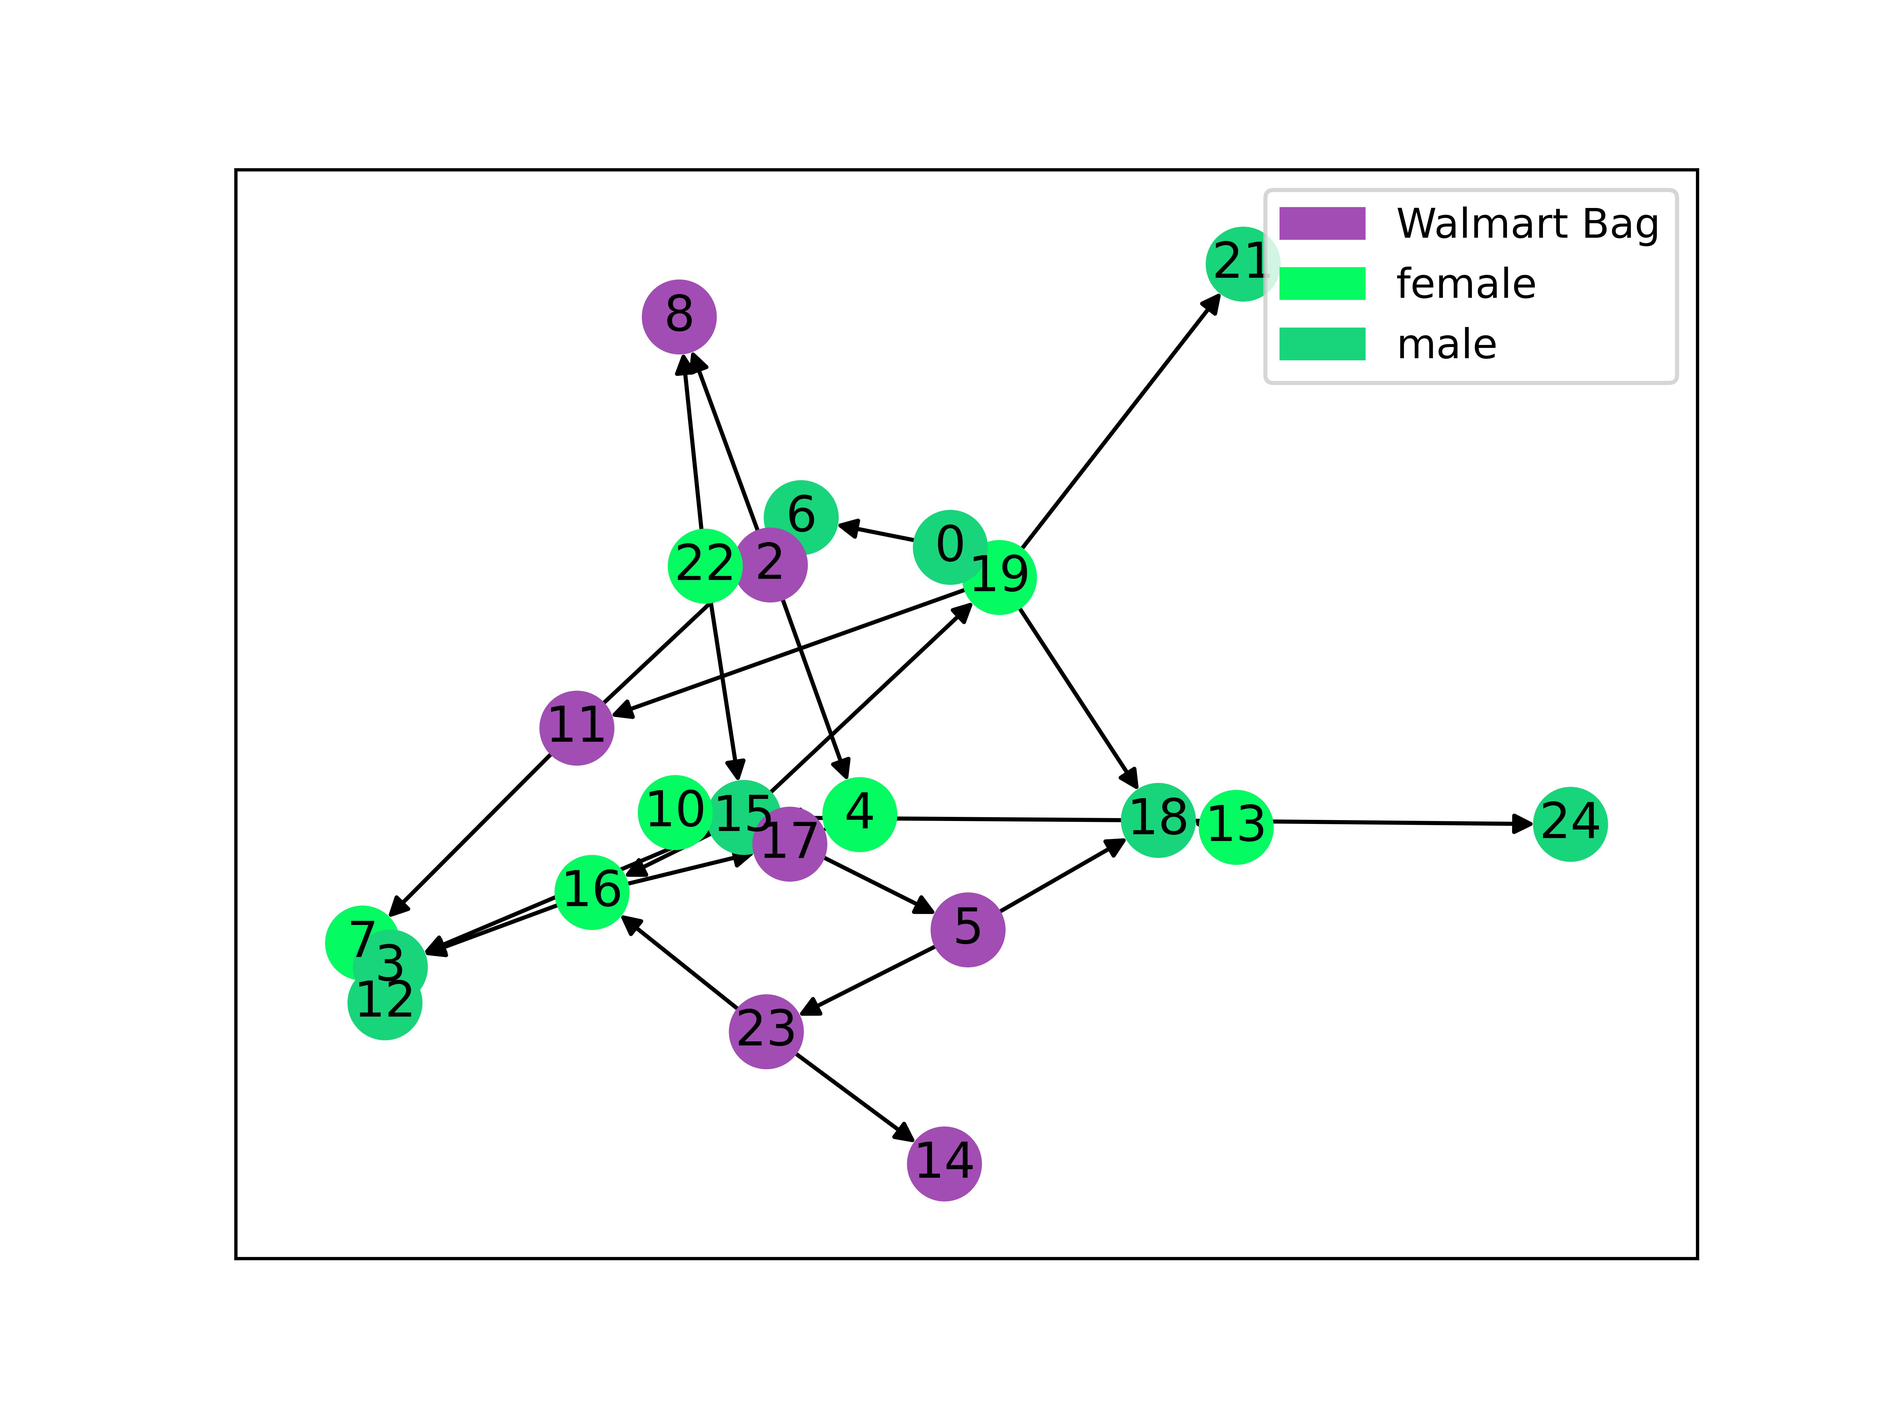
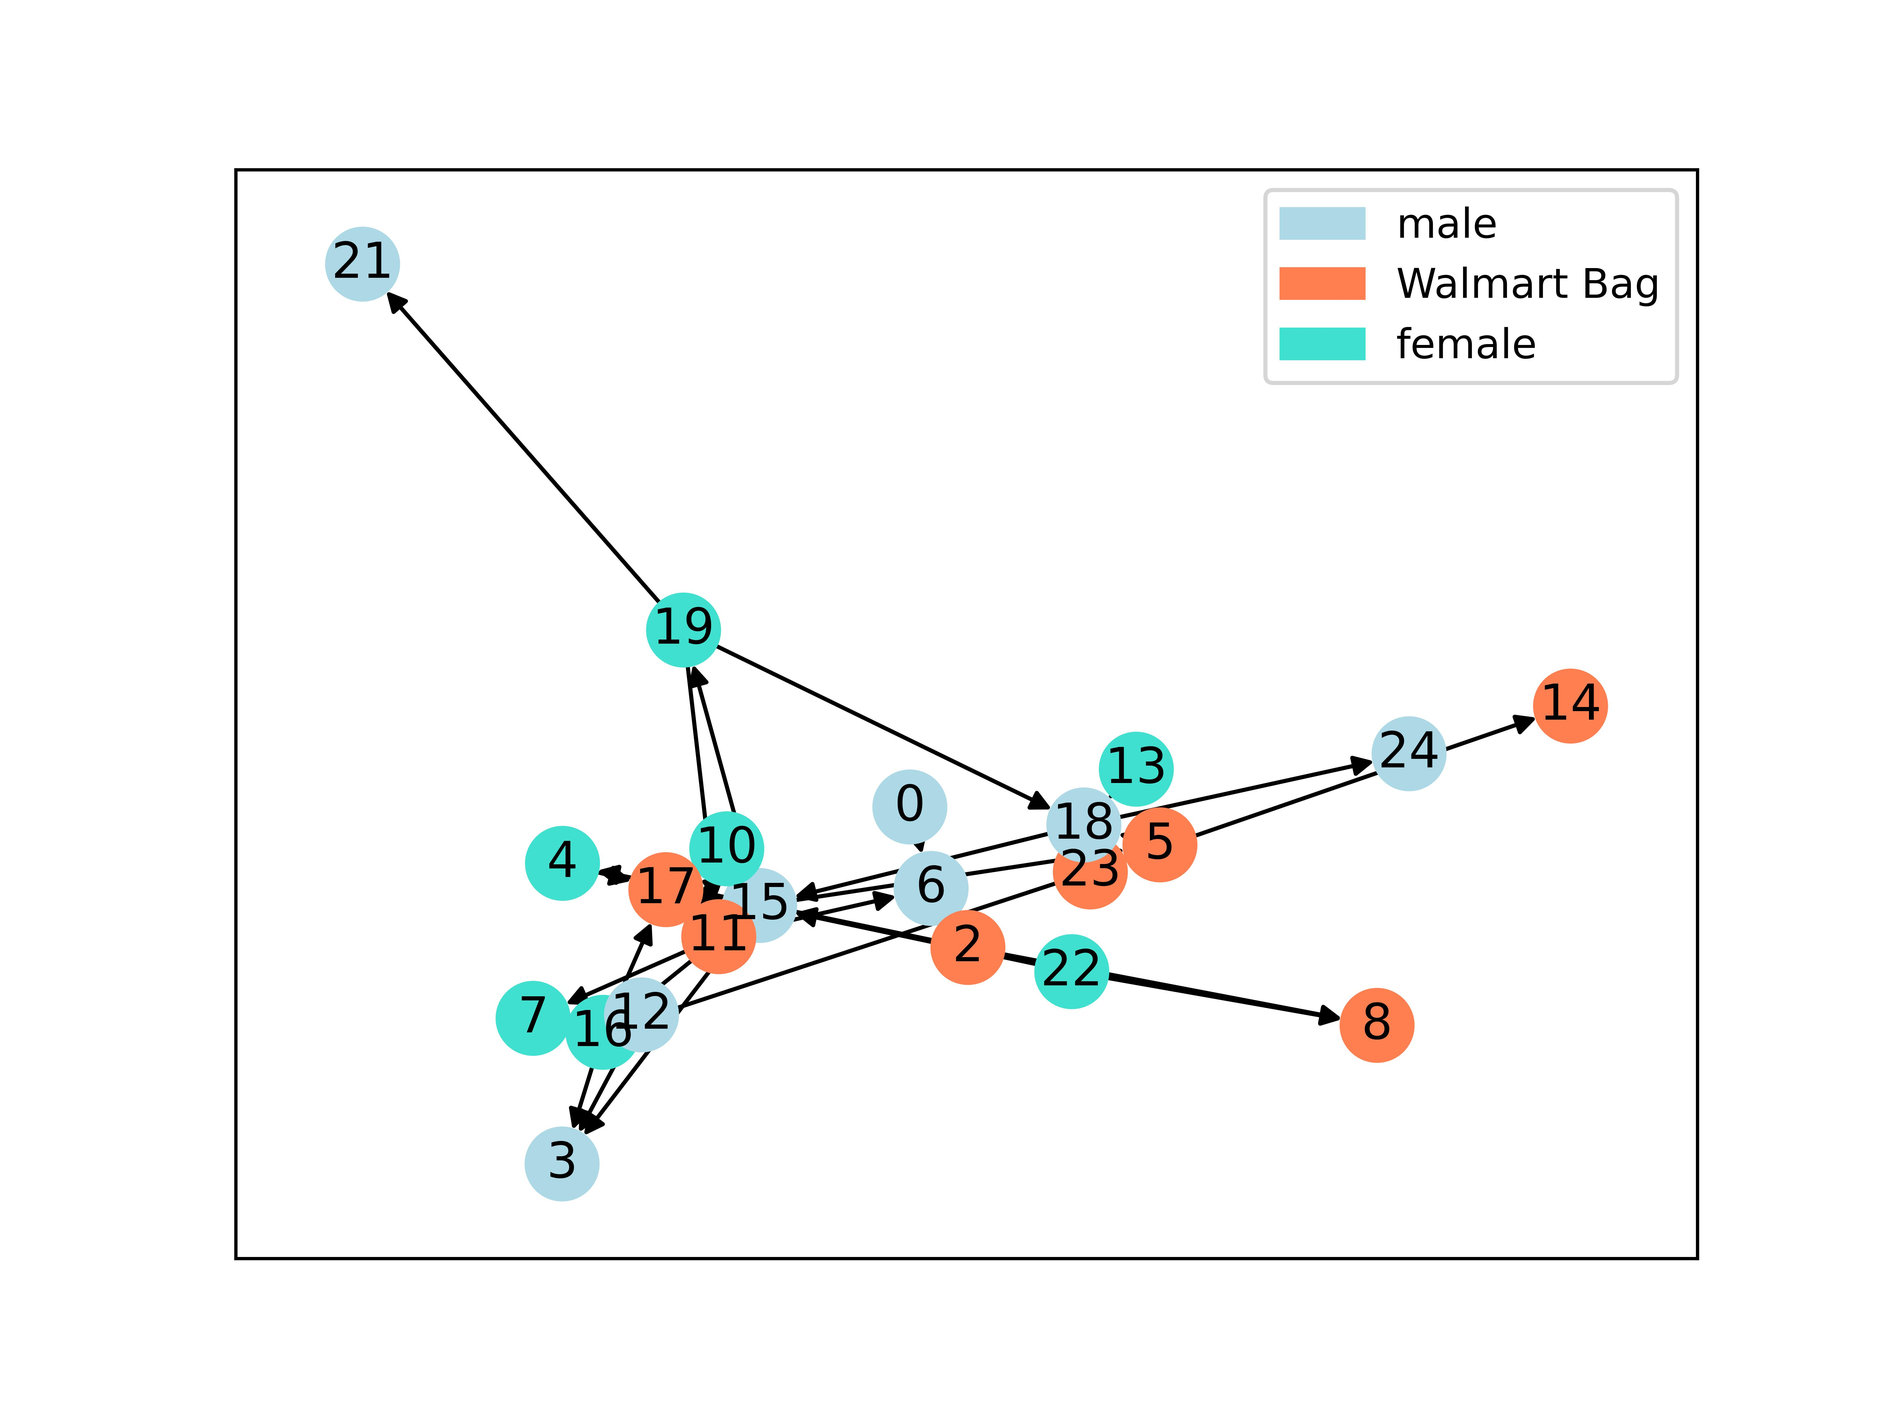
update colorset and return statistics dic

diff --git a/tests/test_visualization.py b/tests/test_visualization.py
@@ -9,85 +9,87 @@ def test_directed_small():
     file_name = "tests/test_data/test_directed_small.csv"
     image_name = "test_directed_small.jpg"
     df = pd.read_csv(file_name)
-    mn = MindNet(user_id= 1, df = df, save_file_name = image_name, directed = True)
-    mn.visualize()
+    mn = MindNet(user_id= 1, df = df, directed = True)
+    mn.visualize(image_name)
     mn.statistics()
+    # dic = mn.extract_level_from_statistics()
+    # print(dic)
 
 def test_undirected_small():
     file_name = "tests/test_data/test_undirected_small.csv"
     image_name = "test_undirected_small.jpg"
     df = pd.read_csv(file_name)
-    mn = MindNet(user_id= 1, df = df, save_file_name = image_name, directed = False)
-    mn.visualize()
+    mn = MindNet(user_id= 1, df = df, directed = False)
+    mn.visualize(image_name)
     
 def test_directed_medium():
     file_name = "tests/test_data/test_directed_medium.csv"
     image_name = "test_directed_medium.jpg"
     df = pd.read_csv(file_name)
-    mn = MindNet(user_id= 1, df = df, save_file_name = image_name, directed = True)
-    mn.visualize()
+    mn = MindNet(user_id= 1, df = df, directed = True)
+    mn.visualize(image_name)
     
 def test_undirected_medium():
     file_name = "tests/test_data/test_undirected_medium.csv"
     image_name = "test_undirected_medium.jpg"
     df = pd.read_csv(file_name)
-    mn = MindNet(user_id= 1, df = df, save_file_name = image_name, directed = False)
-    mn.visualize()
+    mn = MindNet(user_id= 1, df = df, directed = False)
+    mn.visualize(image_name)
     
 def test_directed_large():
     file_name = "tests/test_data/test_directed_large.csv"
     image_name = "test_directed_large.jpg"
     df = pd.read_csv(file_name)
-    mn = MindNet(user_id= 1, df = df, save_file_name = image_name, directed = True)
-    mn.visualize()
+    mn = MindNet(user_id= 1, df = df, directed = True)
+    mn.visualize(image_name)
     
 def test_undirected_large():
     file_name = "tests/test_data/test_undirected_large.csv"
     image_name = "test_undirected_large.jpg"
     df = pd.read_csv(file_name)
-    mn = MindNet(user_id= 1, df = df, save_file_name = image_name, directed = False)
-    mn.visualize()
+    mn = MindNet(user_id= 1, df = df, directed = False)
+    mn.visualize(image_name)
 
 def test_directed_small_attr():
     file_name = "tests/test_data/test_directed_small.csv"
     image_name = "test_directed_small.jpg"
     atte_arr = []
     df = pd.read_csv(file_name)
-    mn = MindNet(user_id= 1, df = df, save_file_name = image_name, directed = True)
-    mn.visualize_attr(attr_dic = {0: "male", 1:"male", 2:"female", 3:"female", 4:"male", 5:"female"})
+    mn = MindNet(user_id= 1, df = df, directed = True)
+    mn.visualize_attr(image_name, attr_dic = {0: "male", 1:"male", 2:"female", 3:"female", 4:"male", 5:"female"})
     
 def test_undirected_small_attr():
     file_name = "tests/test_data/test_undirected_small.csv"
     image_name = "test_undirected_small.jpg"
     df = pd.read_csv(file_name)
-    mn = MindNet(user_id= 1, df = df, save_file_name = image_name, directed = False)
-    mn.visualize_attr(attr_dic = {0: "male", 1:"male", 2:"female", 3:"female", 4:"male", 5:"female"})
+    mn = MindNet(user_id= 1, df = df, directed = False)
+    mn.visualize_attr(image_name, attr_dic = {0: "male", 1:"male", 2:"female", 3:"female", 4:"male", 5:"female"})
     
 def test_directed_medium_attr():
     file_name = "tests/test_data/test_directed_medium.csv"
     image_name = "test_directed_medium.jpg"
     df = pd.read_csv(file_name)
-    mn = MindNet(user_id= 1, df = df, save_file_name = image_name, directed = True)
-    mn.visualize_attr(attr_dic = {0: 'male', 2: 'Walmart Bag', 3: 'male', 4: 'female', 5: 'Walmart Bag', 6: 'male', 7: 'female', 8: 'Walmart Bag', 10: 'female', 11: 'Walmart Bag', 12: 'male', 13: 'female', 14: 'Walmart Bag', 15: 'male', 16: 'female', 17: 'Walmart Bag', 18: 'male', 19: 'female', 21: 'male', 22: 'female', 23: 'Walmart Bag', 24: 'male'})
+    mn = MindNet(user_id= 1, df = df, directed = True)
+    mn.visualize_attr(image_name, attr_dic = {0: 'male', 2: 'Walmart Bag', 3: 'male', 4: 'female', 5: 'Walmart Bag', 6: 'male', 7: 'female', 8: 'Walmart Bag', 10: 'female', 11: 'Walmart Bag', 12: 'male', 13: 'female', 14: 'Walmart Bag', 15: 'male', 16: 'female', 17: 'Walmart Bag', 18: 'male', 19: 'female', 21: 'male', 22: 'female', 23: 'Walmart Bag', 24: 'male'})
     
 def test_undirected_medium_attr():
     file_name = "tests/test_data/test_undirected_medium.csv"
     image_name = "test_undirected_medium.jpg"
     df = pd.read_csv(file_name)
-    mn = MindNet(user_id= 1, df = df, save_file_name = image_name, directed = False)
-    mn.visualize_attr(attr_dic = {0: 'male', 2: 'Walmart Bag', 4: 'female', 5: 'Walmart Bag', 6: 'male', 7: 'female', 8: 'Walmart Bag', 9: 'male', 10: 'female', 11: 'Walmart Bag', 12: 'male', 13: 'female', 14: 'Walmart Bag', 15: 'male', 16: 'female', 17: 'Walmart Bag', 18: 'male', 19: 'female', 20: 'Walmart Bag', 22: 'female', 23: 'Walmart Bag', 24: 'male'})
+    mn = MindNet(user_id= 1, df = df, directed = False)
+    mn.visualize_attr(image_name, attr_dic = {0: 'male', 2: 'Walmart Bag', 4: 'female', 5: 'Walmart Bag', 6: 'male', 7: 'female', 8: 'Walmart Bag', 9: 'male', 10: 'female', 11: 'Walmart Bag', 12: 'male', 13: 'female', 14: 'Walmart Bag', 15: 'male', 16: 'female', 17: 'Walmart Bag', 18: 'male', 19: 'female', 20: 'Walmart Bag', 22: 'female', 23: 'Walmart Bag', 24: 'male'})
     
 def test_directed_large_attr():
     file_name = "tests/test_data/test_directed_large.csv"
     image_name = "test_directed_large.jpg"
     df = pd.read_csv(file_name)
-    mn = MindNet(user_id= 1, df = df, save_file_name = image_name, directed = True)
-    mn.visualize_attr(attr_dic = {0: 'male', 1: 'female', 2: 'Walmart Bag', 3: 'male', 4: 'female', 5: 'Walmart Bag', 6: 'male', 7: 'female', 8: 'Walmart Bag', 9: 'male', 10: 'female', 11: 'Walmart Bag', 12: 'male', 13: 'female', 14: 'Walmart Bag', 16: 'female', 18: 'male', 19: 'female', 21: 'male', 22: 'female', 23: 'Walmart Bag', 24: 'male', 26: 'Walmart Bag', 27: 'male', 29: 'Walmart Bag', 30: 'male', 31: 'female', 32: 'Walmart Bag', 33: 'male', 34: 'female', 35: 'Walmart Bag', 36: 'male', 37: 'female', 38: 'Walmart Bag', 39: 'male', 40: 'female', 41: 'Walmart Bag', 42: 'male', 43: 'female', 44: 'Walmart Bag', 45: 'male', 46: 'female', 47: 'Walmart Bag', 49: 'female'})
+    mn = MindNet(user_id= 1, df = df, directed = True)
+    mn.visualize_attr(image_name, attr_dic = {0: 'male', 1: 'female', 2: 'Walmart Bag', 3: 'male', 4: 'female', 5: 'Walmart Bag', 6: 'male', 7: 'female', 8: 'Walmart Bag', 9: 'male', 10: 'female', 11: 'Walmart Bag', 12: 'male', 13: 'female', 14: 'Walmart Bag', 16: 'female', 18: 'male', 19: 'female', 21: 'male', 22: 'female', 23: 'Walmart Bag', 24: 'male', 26: 'Walmart Bag', 27: 'male', 29: 'Walmart Bag', 30: 'male', 31: 'female', 32: 'Walmart Bag', 33: 'male', 34: 'female', 35: 'Walmart Bag', 36: 'male', 37: 'female', 38: 'Walmart Bag', 39: 'male', 40: 'female', 41: 'Walmart Bag', 42: 'male', 43: 'female', 44: 'Walmart Bag', 45: 'male', 46: 'female', 47: 'Walmart Bag', 49: 'female'})
     
 def test_undirected_large_attr():
     file_name = "tests/test_data/test_undirected_large.csv"
     image_name = "test_undirected_large.jpg"
     df = pd.read_csv(file_name)
-    mn = MindNet(user_id= 1, df = df, save_file_name = image_name, directed = False)
-    mn.visualize_attr(attr_dic = {0: 'male', 1: 'female', 2: 'Walmart Bag', 3: 'male', 4: 'female', 5: 'Walmart Bag', 6: 'male', 7: 'female', 8: 'Walmart Bag', 9: 'male', 10: 'female', 11: 'Walmart Bag', 12: 'male', 13: 'female', 14: 'Walmart Bag', 15: 'male', 16: 'female', 17: 'Walmart Bag', 18: 'male', 19: 'female', 20: 'Walmart Bag', 21: 'male', 22: 'female', 23: 'Walmart Bag', 24: 'male', 25: 'female', 26: 'Walmart Bag', 27: 'male', 28: 'female', 30: 'male', 31: 'female', 32: 'Walmart Bag', 33: 'male', 34: 'female', 35: 'Walmart Bag', 36: 'male', 37: 'female', 39: 'male', 40: 'female', 41: 'Walmart Bag', 42: 'male', 43: 'female', 44: 'Walmart Bag', 45: 'male', 46: 'female', 47: 'Walmart Bag', 48: 'male', 49: 'female'})
+    mn = MindNet(user_id= 1, df = df, directed = False)
+    mn.visualize_attr(image_name, attr_dic = {0: 'male', 1: 'female', 2: 'Walmart Bag', 3: 'male', 4: 'female', 5: 'Walmart Bag', 6: 'male', 7: 'female', 8: 'Walmart Bag', 9: 'male', 10: 'female', 11: 'Walmart Bag', 12: 'male', 13: 'female', 14: 'Walmart Bag', 15: 'male', 16: 'female', 17: 'Walmart Bag', 18: 'male', 19: 'female', 20: 'Walmart Bag', 21: 'male', 22: 'female', 23: 'Walmart Bag', 24: 'male', 25: 'female', 26: 'Walmart Bag', 27: 'male', 28: 'female', 30: 'male', 31: 'female', 32: 'Walmart Bag', 33: 'male', 34: 'female', 35: 'Walmart Bag', 36: 'male', 37: 'female', 39: 'male', 40: 'female', 41: 'Walmart Bag', 42: 'male', 43: 'female', 44: 'Walmart Bag', 45: 'male', 46: 'female', 47: 'Walmart Bag', 48: 'male', 49: 'female'})
     

diff --git a/src/MindNet.py b/src/MindNet.py
@@ -6,7 +6,7 @@ import scipy as sp
 import matplotlib.patches as mpatches
 
 class MindNet():
-    def __init__(self, user_id: int, df: pd.DataFrame, save_file_name: str, directed: bool):
+    def __init__(self, user_id: int, df: pd.DataFrame, directed: bool):
         """
         Args:
             user_id (int): node user id
@@ -18,7 +18,11 @@ class MindNet():
         self.data_frame = df
         self.directed = directed
         self.graph = self.read_graph_from_edgelist()
-        self.save_file_name = save_file_name
+        self.hex_colors = ["#ADD8E6", "#FF7F50", "#40E0D0", "#DAA520", "#DA70D6",
+                           "#FF6347", "#000080", "#008080", "#808000", "#800000",
+                           "#00FF00", "#00FFFF", "#FF00FF", "#C0C0C0", "#808080",
+                           "#800080", "#008000", "#0000FF", "#FF0000", "#FFFF00"]
+
         
     def read_graph_from_edgelist(self):
         """
@@ -32,46 +36,48 @@ class MindNet():
             
         return nx.from_pandas_edgelist(self.data_frame, create_using = graph_type)
     
-    def visualize(self):
+    def visualize(self, save_file_name):
         """
         Visualize network structure
         """        
         plt.clf()
-        color_map = ["#FF8C00" if node == self.user_id else "#6B8E23" for node in self.graph]
+        color_map = ["#ADD8E6" if node == self.user_id else "#FF7F50" for node in self.graph]
         nx.draw_networkx(self.graph, node_color = color_map, with_labels=True)
-        plt.savefig(self.save_file_name, format = "JPG", dpi = 1000)
+        plt.savefig(save_file_name, format = "JPG", dpi = 1000)
         
-    def visualize_attr(self, attr_dic: dict):
+    def visualize_attr(self, save_file_name: str, attr_dic: dict):
         """
         Visualize network structure, colored by attr_dic
         """        
         plt.clf()
         num_colors = len(set(attr_dic.values()))
         color_dic = {}
+        idx = 0
         for val in set(attr_dic.values()):
             if val not in color_dic:
-                color_dic[val] = np.random.uniform(0, 1, 3)
+                color_dic[val] = self.hex_colors[idx]
+                idx += 1
         color_map = [color_dic[attr_dic[node]] for node in self.graph]
         nx.draw_networkx(self.graph, node_color = color_map, with_labels=True)
         handle = [mpatches.Patch(color = c, label = attr) for attr, c in color_dic.items()]
         plt.legend(handles = handle)
-        plt.savefig(self.save_file_name, format = "JPG", dpi = 1000)
+        plt.savefig(save_file_name, format = "JPG", dpi = 1000)
         
-    def visualize_degree(self):
-        """
-        Generate barplot for degree distribution of all nodes
-        """        
-        deg_seq = [degree for idx, degree in self.graph.degree()]
-        deg_seq.sort(reverse = True)
-        deg_set = set(deg_seq)
-        counts = [deg_seq.count(d) for d in deg_set]
-        user_deg = self.graph.degree(self.user_id)
-        plt.clf()
-        plt.bar(list(deg_set), counts)
-        plt.xlabel("Degree")
-        plt.ylabel("Freq")
-        plt.axvline(x=user_deg, c = "red")
-        # plt.savefig("degree.jpg", format = "JPG", dpi = 1000)
+    # def visualize_degree(self):
+    #     """
+    #     Generate barplot for degree distribution of all nodes
+    #     """        
+    #     deg_seq = [degree for idx, degree in self.graph.degree()]
+    #     deg_seq.sort(reverse = True)
+    #     deg_set = set(deg_seq)
+    #     counts = [deg_seq.count(d) for d in deg_set]
+    #     user_deg = self.graph.degree(self.user_id)
+    #     plt.clf()
+    #     plt.bar(list(deg_set), counts)
+    #     plt.xlabel("Degree")
+    #     plt.ylabel("Freq")
+    #     plt.axvline(x=user_deg, c = "red")
+    #     # plt.savefig("degree.jpg", format = "JPG", dpi = 1000)
         
     def statistics(self, stat_save_path = None):
         """
@@ -87,18 +93,28 @@ class MindNet():
         if self.directed:
             df_stat["reciprocity"] = nx.reciprocity(self.graph, nodes = list(self.graph.nodes())).values()
 
-        print("\n")
+        # print("\n")
         for col_name in df_stat.columns:
             df_stat[f"{col_name}_rank"] = df_stat[f"{col_name}"].rank(ascending=False).astype(int)
             df_stat[f"{col_name}_level"] = df_stat[f"{col_name}_rank"] / len(df_stat) * 3
             df_stat[f"{col_name}_level"] = df_stat[f"{col_name}_level"].apply(np.floor).astype(int)
             
-        print(df_stat.head())
+        # print(df_stat.head())
     
         self.df_stat = df_stat
         
         if stat_save_path:
             df_stat.to_csv(stat_save_path)
+            
+    def extract_level_from_statistics(self):
+        col_names = ["degree_level", "closeness_level", "eigen_centrality_level"]
+        if self.directed:
+            col_names.append("reciprocity_level")
+        user_row = self.df_stat[self.df_stat['nodes'] == self.user_id]
+        user_data = {col: user_row.iloc[0][col] for col in col_names}
+        user_data['user_id'] = self.user_id
+        return user_data
+        
         
 
 

diff --git a/src/lambda_function.py b/src/lambda_function.py
@@ -1,0 +1,80 @@
+import numpy as np
+import pandas as pd
+import networkx as nx
+import matplotlib.pyplot as plt
+import scipy as sp
+import matplotlib.patches as mpatches
+
+
+
+def lambda_handler():
+    """
+    TODO: 
+    1. Read json from frontend
+    2. convert Json to pandas dataframes. One for node attributes. Several for questions. 
+    3. Create Mindnet Object and specify location to store visualization image files
+    4. Visualize images based on node attributes
+    5. Calculate network statistics
+    6. Store images and statistics files to S3. 
+    """
+    
+    # file_name = "tests/test_data/test_undirected_large.csv"
+    # image_name = "test_undirected_large.jpg"
+    # df = pd.read_csv(file_name)
+    # mn = MindNet(user_id= 1, df = df, save_file_name = image_name, directed = False)
+    # mn.visualize_attr(attr_dic = {0: 'male', 1: 'female', 2: 'Walmart Bag', 3: 'male', 4: 'female', 5: 'Walmart Bag', 6: 'male', 7: 'female', 8: 'Walmart Bag', 9: 'male', 10: 'female', 11: 'Walmart Bag', 12: 'male', 13: 'female', 14: 'Walmart Bag', 15: 'male', 16: 'female', 17: 'Walmart Bag', 18: 'male', 19: 'female', 20: 'Walmart Bag', 21: 'male', 22: 'female', 23: 'Walmart Bag', 24: 'male', 25: 'female', 26: 'Walmart Bag', 27: 'male', 28: 'female', 30: 'male', 31: 'female', 32: 'Walmart Bag', 33: 'male', 34: 'female', 35: 'Walmart Bag', 36: 'male', 37: 'female', 39: 'male', 40: 'female', 41: 'Walmart Bag', 42: 'male', 43: 'female', 44: 'Walmart Bag', 45: 'male', 46: 'female', 47: 'Walmart Bag', 48: 'male', 49: 'female'})
+    
+    
+    # Convert json file to pandas dataframes here:
+    
+    
+
+    # Create MindNet objects for each question
+    mn1 = MindNet(user_id= 0, df = df1, directed = False)
+    mn2 = MindNet(user_id= 0, df = df2, directed = False)
+    mn3 = MindNet(user_id= 0, df = df3, directed = False)
+    mn4 = MindNet(user_id= 0, df = df4, directed = False)
+    mn5 = MindNet(user_id= 0, df = df5, directed = True)
+    
+    # Visualize basic layout without attributes
+    mn1.visualize(save_file_name = save_file_name1)
+    mn2.visualize(save_file_name = save_file_name2)
+    mn3.visualize(save_file_name = save_file_name3)
+    mn4.visualize(save_file_name = save_file_name4)
+    mn5.visualize(save_file_name = save_file_name5)
+    
+    # Visualize basic layout based on gender
+    mn1.visualize_attr(save_file_name = save_file_name1, attr_dic = attr_dic1)
+    mn2.visualize_attr(save_file_name = save_file_name2, attr_dic = attr_dic2)
+    mn3.visualize_attr(save_file_name = save_file_name3, attr_dic = attr_dic3)
+    mn4.visualize_attr(save_file_name = save_file_name4, attr_dic = attr_dic4)
+    mn5.visualize_attr(save_file_name = save_file_name5, attr_dic = attr_dic5)
+    
+    # Visualize basic layout based on age
+    mn1.visualize_attr(save_file_name = save_file_name1, attr_dic = attr_dic1)
+    mn2.visualize_attr(save_file_name = save_file_name2, attr_dic = attr_dic2)
+    mn3.visualize_attr(save_file_name = save_file_name3, attr_dic = attr_dic3)
+    mn4.visualize_attr(save_file_name = save_file_name4, attr_dic = attr_dic4)
+    mn5.visualize_attr(save_file_name = save_file_name5, attr_dic = attr_dic5)
+    
+    # calculate network statistics
+    mn1.statistics()
+    mn2.statistics()
+    mn3.statistics()
+    mn4.statistics()
+    mn5.statistics()
+    
+    # extract statistics ranks from statistics. Need to return these values to frontend
+    dic1 = mn1.extract_level_from_statistics()
+    dic2 = mn2.extract_level_from_statistics()
+    dic3 = mn3.extract_level_from_statistics()
+    dic4 = mn4.extract_level_from_statistics()
+    dic5 = mn5.extract_level_from_statistics()
+                    
+    
+    
+    
+    
+    
+    
+        
